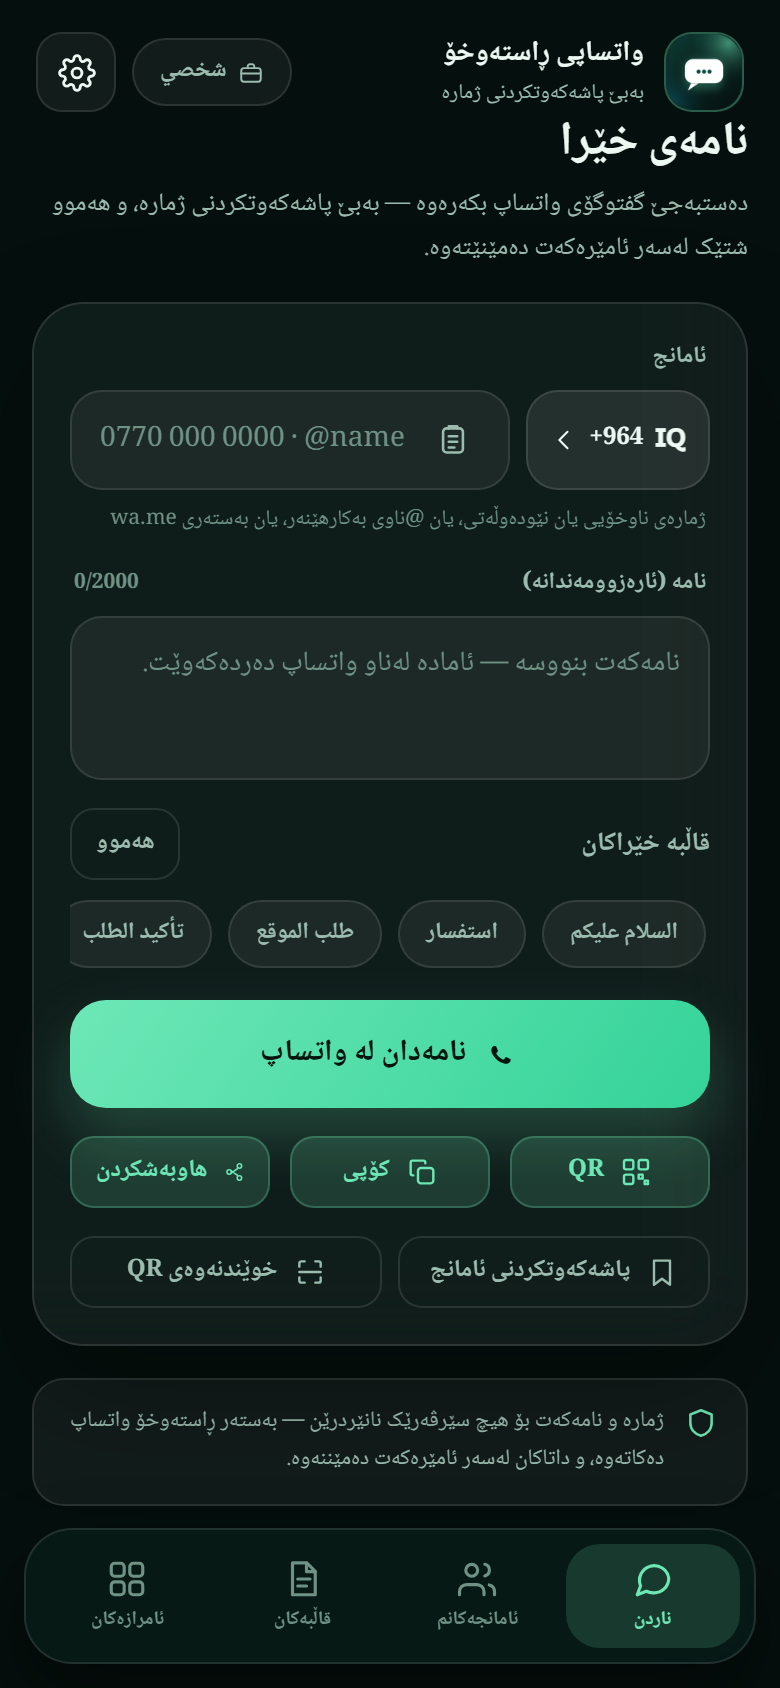
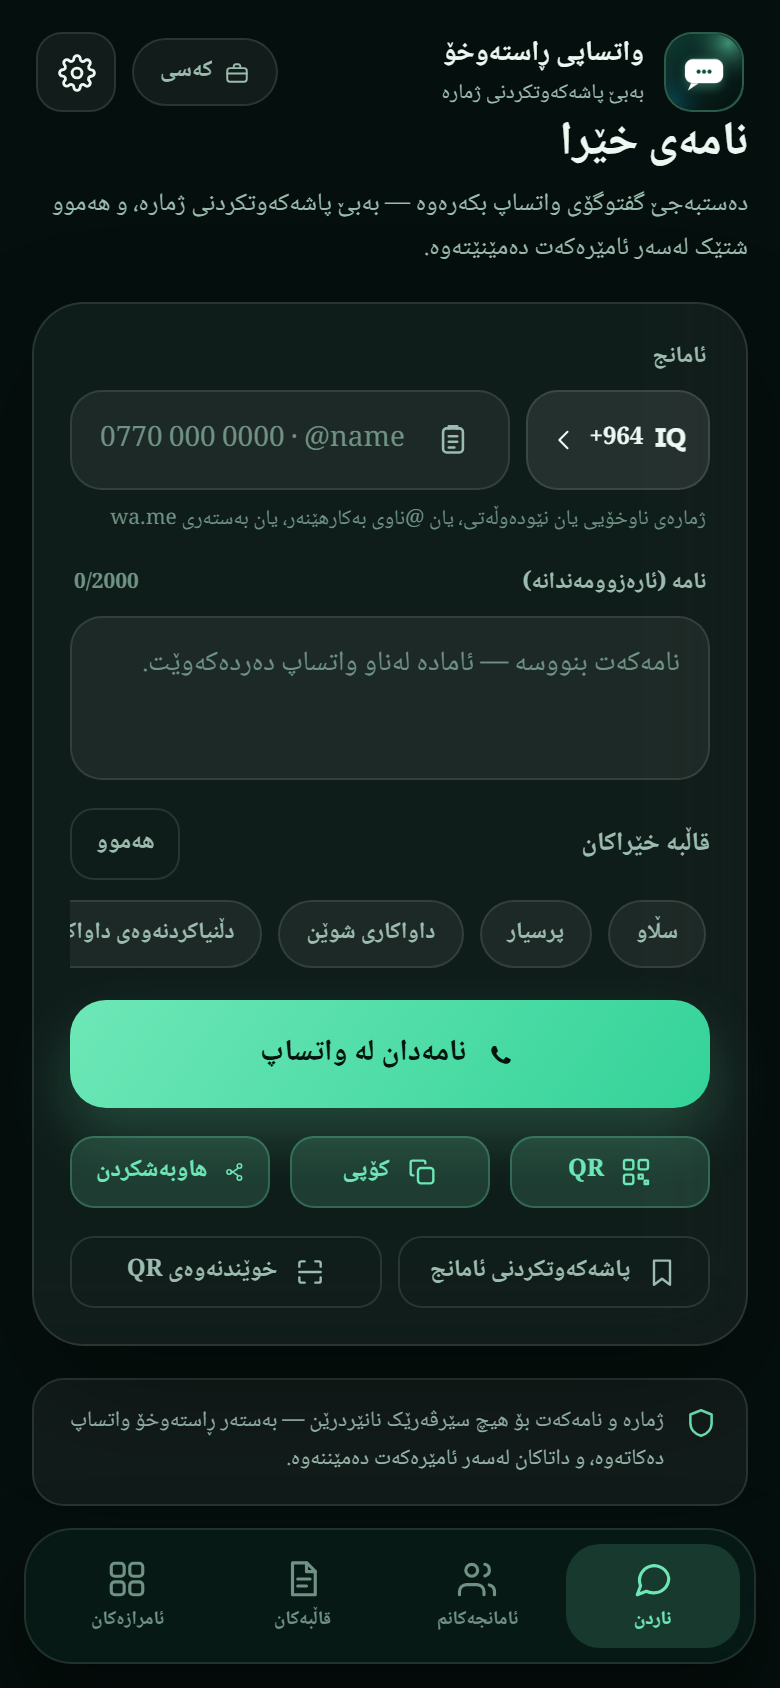
feat(v2.2): localize built-in templates and workspace names for fa/ckb

diff --git a/src/features/templates/TemplatesScreen.tsx b/src/features/templates/TemplatesScreen.tsx
@@ -7,7 +7,7 @@ import { hapticError, hapticSuccess } from '../../lib/haptics';
 import { useI18n } from '../../lib/i18n';
 import { setDraft } from '../../lib/launch';
 import { navigate } from '../../lib/router';
-import { templateVariables } from '../../lib/template';
+import { localizedTemplate, templateVariables } from '../../lib/template';
 import { toast } from '../../lib/toast';
 import type { Template } from '../../types';
 import { TemplateSheet } from './TemplateSheet';
@@ -21,7 +21,7 @@ function clampLines(lines: number): CSSProperties {
 
 /** Ready-made message templates with variables. */
 export function TemplatesScreen() {
-  const { t, locale, rel } = useI18n();
+  const { t, rel } = useI18n();
   const workspace = useActiveWorkspace();
   const templates = useTemplates(workspace?.id);
 
@@ -33,8 +33,8 @@ export function TemplatesScreen() {
   const [varsFor, setVarsFor] = useState<Template | null>(null);
   const [deleteTarget, setDeleteTarget] = useState<Template | null>(null);
 
-  const titleOf = (template: Template) => (locale === 'en' ? template.titleEn || template.title : template.title);
-  const bodyOf = (template: Template) => (locale === 'en' ? template.bodyEn || template.body : template.body);
+  const titleOf = (template: Template) => localizedTemplate(template, t).title;
+  const bodyOf = (template: Template) => localizedTemplate(template, t).body;
 
   const tags = useMemo(() => {
     const found = new Set<string>();
@@ -50,11 +50,11 @@ export function TemplatesScreen() {
     return templates.filter((template) => {
       if (activeTag && !(template.tags || []).includes(activeTag)) return false;
       if (!term) return true;
-      const title = locale === 'en' ? template.titleEn || template.title : template.title;
-      const body = locale === 'en' ? template.bodyEn || template.body : template.body;
+      const title = localizedTemplate(template, t).title;
+      const body = localizedTemplate(template, t).body;
       return [title, body, ...(template.tags || [])].some((value) => value.toLowerCase().includes(term));
     });
-  }, [templates, activeTag, term, locale]);
+  }, [templates, activeTag, term, t]);
 
   const openNew = () => {
     setEditing(null);

diff --git a/src/lib/ku.ts b/src/lib/ku.ts
@@ -962,4 +962,18 @@ export const KU: Record<string, string> = {
   'أذربيجان': 'ئازەربایجان',
   'جورجيا': 'گورجستان',
   'كازاخستان': 'کازاخستان',
+
+  // قالبە بنەڕەتییەکان (ناوەکان و دەقەکان)
+  'السلام عليكم': 'سڵاو',
+  'السلام عليكم ورحمة الله وبركاته، كيف حالك؟': 'سڵاو و ڕەحمەتی خوا و بەرەکاتەکانی، چۆنی؟',
+  'استفسار': 'پرسیار',
+  'مرحباً، أود الاستفسار عن التفاصيل والأسعار. شكراً لك.': 'سڵاو، دەمەوێت دەربارەی وردەکاری و نرخەکان بپرسێم. سوپاس.',
+  'طلب الموقع': 'داواکاری شوێن',
+  'مرحباً، هل يمكنك إرسال موقعكم بالتحديد؟': 'سڵاو، دەتوانیت شوێنی وردی خۆتان بنێریت؟',
+  'تأكيد الطلب': 'دڵنیاکردنەوەی داواکاری',
+  'تم استلام طلبك بنجاح، وسنبدأ العمل عليه فوراً. شكراً لثقتك.': 'داواکارییەکەت بە سەرکەوتوویی وەرگیرا و بەم زووانە دەست پێدەکەین. سوپاس بۆ متمانەت.',
+  'شكر': 'سوپاس',
+  'شكراً جزيلاً لك، سعدنا بالتعامل معك.': 'زۆر سوپاس، خۆشحاڵ بووین بە هاوکاری لەگەڵت.',
+  'مرحباً، أردت المتابعة معك بخصوص طلبك السابق. هل تحتاج أي مساعدة إضافية؟': 'سڵاو، دەمویست بەدواداچوون بۆ داواکاری پێشووت بکەم. پێویستت بە یارمەتی زیاترە؟',
+  'عمل': 'کار',
 };

diff --git a/src/lib/fa.ts b/src/lib/fa.ts
@@ -973,4 +973,18 @@ export const FA: Record<string, string> = {
   'ADMH': 'ADMH',
   'QR': 'QR',
   'إنجاز': 'انجام',
+
+  // قالبهای پیشفرض (عنوانها و متنها)
+  'السلام عليكم': 'سلام',
+  'السلام عليكم ورحمة الله وبركاته، كيف حالك؟': 'سلام و رحمت الله و برکاته، حال شما چطور است؟',
+  'استفسار': 'استفسار',
+  'مرحباً، أود الاستفسار عن التفاصيل والأسعار. شكراً لك.': 'سلام، میخواهم درباره جزئیات و قیمتها سؤال کنم. ممنون.',
+  'طلب الموقع': 'درخواست موقعیت',
+  'مرحباً، هل يمكنك إرسال موقعكم بالتحديد؟': 'سلام، آیا میتوانید موقعیت دقیق خود را بفرستید؟',
+  'تأكيد الطلب': 'تأیید سفارش',
+  'تم استلام طلبك بنجاح، وسنبدأ العمل عليه فوراً. شكراً لثقتك.': 'سفارش شما با موفقیت دریافت شد و بهزودی شروع میکنیم. از اعتماد شما سپاسگزاریم.',
+  'شكر': 'تشکر',
+  'شكراً جزيلاً لك، سعدنا بالتعامل معك.': 'بسیار سپاسگزارم، از همکاری با شما خوشحال شدیم.',
+  'مرحباً، أردت المتابعة معك بخصوص طلبك السابق. هل تحتاج أي مساعدة إضافية؟': 'سلام، میخواستم درباره سفارش قبلی شما پیگیری کنم. آیا به کمک بیشتری نیاز دارید؟',
+  'عمل': 'کار',
 };

diff --git a/src/App.tsx b/src/App.tsx
@@ -19,6 +19,7 @@ import { takeSharedImage } from './lib/sharedImage';
 import { getStorageInfo } from './lib/storage';
 import { notificationPermission, notifyDueReminders } from './lib/notifications';
 import { APP_VERSION } from './lib/changelog';
+import { workspaceDisplayName } from './lib/workspace';
 import { toast } from './lib/toast';
 import { Onboarding } from './components/Onboarding';
 import { WhatsNew } from './components/WhatsNew';
@@ -121,7 +122,7 @@ function WorkspaceSheet({ open, onClose }: { open: boolean; onClose: () => void 
               <Icon name="briefcase" size={18} />
             </span>
             <span className="list-main">
-              <span className="list-title">{locale === 'en' ? workspace.nameEn : workspace.name}</span>
+              <span className="list-title">{workspaceDisplayName(workspace, t, locale)}</span>
             </span>
             {settings.activeWorkspaceId === workspace.id ? <Icon name="check" size={18} /> : null}
           </button>
@@ -233,7 +234,7 @@ export default function App() {
   const first = path[0] || 'compose';
   const isTab = path.length === 1 && (first === 'compose' || first === 'targets' || first === 'templates' || first === 'tools');
   const tab: TabKey = (isTab ? first : 'compose') as TabKey;
-  const workspaceName = workspace ? (locale === 'en' ? workspace.nameEn : workspace.name) : t('شخصي', 'Personal');
+  const workspaceName = workspaceDisplayName(workspace, t, locale);
   const due = useDueReminders(workspace?.id);
   const showOnboarding = !settings.onboarded && !introDone;
   const showWhatsNew = settings.onboarded && settings.lastSeenVersion !== APP_VERSION && !whatsNewClosed;

diff --git a/src/features/compose/ComposeScreen.tsx b/src/features/compose/ComposeScreen.tsx
@@ -11,7 +11,7 @@ import { COUNTRIES, countryByIso, extractCandidateFromText, formatPhone, normali
 import { initials } from '../../lib/format';
 import { navigate } from '../../lib/router';
 import { updateSettings, useSettings } from '../../lib/settings';
-import { hasVariables, previewTemplate } from '../../lib/template';
+import { hasVariables, localizedTemplate, previewTemplate } from '../../lib/template';
 import { toast } from '../../lib/toast';
 import { buildChatUrl, openChat } from '../../lib/whatsapp';
 import type { Draft, Target } from '../../types';
@@ -381,15 +381,14 @@ export function ComposeScreen() {
               </Button>
             </div>
             <div className="chip-row">
-              {templates.slice(0, 12).map((template) => (
-                <Chip
-                  key={template.id}
-                  title={template.title}
-                  onClick={() => insertTemplate(locale === 'en' && template.bodyEn ? template.bodyEn : template.body)}
-                >
-                  {locale === 'en' ? template.titleEn || template.title : template.title}
-                </Chip>
-              ))}
+              {templates.slice(0, 12).map((template) => {
+                const localized = localizedTemplate(template, t);
+                return (
+                  <Chip key={template.id} title={localized.title} onClick={() => insertTemplate(localized.body)}>
+                    {localized.title}
+                  </Chip>
+                );
+              })}
             </div>
           </div>
         ) : null}

diff --git a/src/features/tools/LabelsScreen.tsx b/src/features/tools/LabelsScreen.tsx
@@ -4,6 +4,7 @@ import { Button, EmptyState, Field, HintCard, ScreenHeader, Segmented, Spinner }
 import { useActiveWorkspace, useDestinations } from '../../hooks/useData';
 import { useI18n } from '../../lib/i18n';
 import { useSettings, fontFamily, resolveFont } from '../../lib/settings';
+import { workspaceDisplayName } from '../../lib/workspace';
 import { goBack, navigate } from '../../lib/router';
 import { qrDataUrl } from '../../lib/qr';
 import { parseTarget } from '../../lib/phone';
@@ -240,7 +241,7 @@ export function LabelsScreen() {
 
       const html = buildPrintDocument(rows, grid === '3x8' ? 3 : 2, {
         title: t('ملصقات واتساب', 'WhatsApp labels'),
-        subtitle: workspace ? (locale === 'en' ? workspace.nameEn : workspace.name) : t('ADMH', 'ADMH'),
+        subtitle: workspaceDisplayName(workspace, t, locale),
         footer: 'ADMH · WhatsApp Direct',
         dir: isRTL ? 'rtl' : 'ltr',
         fontFamily: fontFamily(resolveFont(locale, settings.font))

diff --git a/src/features/templates/TemplateVarsSheet.tsx b/src/features/templates/TemplateVarsSheet.tsx
@@ -1,7 +1,7 @@
 import { useEffect, useState } from 'react';
 import { Button, Field, Sheet } from '../../components/ui';
 import { useI18n } from '../../lib/i18n';
-import { applyTemplate, previewTemplate, templateVariables, type TemplateVars } from '../../lib/template';
+import { applyTemplate, localizedTemplate, previewTemplate, templateVariables, type TemplateVars } from '../../lib/template';
 import type { Template } from '../../types';
 
 export interface TemplateVarsSheetProps {
@@ -37,7 +37,7 @@ export function TemplateVarsSheet({ open, onClose, template, onApply }: Template
     // eslint-disable-next-line react-hooks/exhaustive-deps
   }, [open, template?.id, locale]);
 
-  const body = template ? (locale === 'en' && template.bodyEn ? template.bodyEn : template.body) : '';
+  const body = template ? localizedTemplate(template, t).body : '';
   const keys = templateVariables(body);
   const preview = previewTemplate(body, vars, locale);
 

diff --git a/src/features/settings/SettingsScreen.tsx b/src/features/settings/SettingsScreen.tsx
@@ -21,6 +21,7 @@ import {
   type NotificationPermissionState
 } from '../../lib/notifications';
 import { writeClipboardText } from '../../lib/clipboard';
+import { workspaceDisplayName } from '../../lib/workspace';
 import { CountrySheet } from './CountrySheet';
 import { WorkspaceSheet } from './WorkspaceSheet';
 import { PinSheet, type PinSheetMode } from './PinSheet';
@@ -566,7 +567,7 @@ export function SettingsScreen() {
             {workspaces.map((workspace) => {
               const isActive = workspace.id === activeWorkspace?.id;
               const iconName = WORKSPACE_ICONS[workspace.icon] ?? 'briefcase';
-              const localName = locale === 'en' ? workspace.nameEn || workspace.name : workspace.name;
+              const localName = workspaceDisplayName(workspace, t, locale);
               return (
                 <div key={workspace.id} className="list-row">
                   <span

diff --git a/src/lib/template.ts b/src/lib/template.ts
@@ -1,3 +1,5 @@
+import type { Template } from '../types';
+
 export interface TemplateVars {
   name?: string;
   company?: string;
@@ -37,4 +39,16 @@ export function previewTemplate(body: string, vars: TemplateVars, locale: string
     date: vars.date || new Date().toLocaleDateString(locale === 'en' ? 'en-GB' : 'ar-IQ')
   });
   return filled;
+}
+
+/**
+ * Built-in templates are seeded in Arabic once; translate their title/body
+ * through the active locale dictionary without mutating the stored data.
+ */
+export function localizedTemplate(template: Template, t: (ar: string, en: string) => string): { title: string; body: string } {
+  if (!template.builtin) return { title: template.title, body: template.body };
+  return {
+    title: t(template.title, template.titleEn || template.title),
+    body: t(template.body, template.bodyEn || template.body)
+  };
 }

diff --git a/src/features/tools/ShareCardScreen.tsx b/src/features/tools/ShareCardScreen.tsx
@@ -4,6 +4,7 @@ import { Button, EmptyState, Field, HintCard, IconButton, ScreenHeader, Spinner 
 import { useActiveWorkspace } from '../../hooks/useData';
 import { useI18n } from '../../lib/i18n';
 import { useSettings, fontFamily, resolveFont } from '../../lib/settings';
+import { workspaceDisplayName } from '../../lib/workspace';
 import { goBack } from '../../lib/router';
 import { loadImage, qrDataUrl } from '../../lib/qr';
 import { buildChatUrl } from '../../lib/whatsapp';
@@ -306,7 +307,7 @@ export function ShareCardScreen() {
 
   useEffect(() => {
     if (nameEdited.current || name.trim() || !workspace) return;
-    setName(locale === 'en' ? workspace.nameEn : workspace.name);
+    setName(workspaceDisplayName(workspace, t, locale));
   }, [workspace, locale, name]);
 
   const resolvedFont = fontFamily(resolveFont(locale, settings.font));

diff --git a/src/features/tools/ToolsScreen.tsx b/src/features/tools/ToolsScreen.tsx
@@ -3,6 +3,7 @@ import { HintCard, ScreenHeader } from '../../components/ui';
 import { useActiveWorkspace, useDestinations } from '../../hooks/useData';
 import { useI18n } from '../../lib/i18n';
 import { navigate } from '../../lib/router';
+import { workspaceDisplayName } from '../../lib/workspace';
 
 interface ToolEntry {
   path: string;
@@ -121,7 +122,7 @@ export function ToolsScreen() {
   const { t, n, locale, isRTL } = useI18n();
   const workspace = useActiveWorkspace();
   const destinations = useDestinations(workspace?.id);
-  const workspaceName = workspace ? (locale === 'en' ? workspace.nameEn : workspace.name) : t('شخصي', 'Personal');
+  const workspaceName = workspaceDisplayName(workspace, t, locale);
 
   return (
     <div className="screen">

diff --git a/src/features/tools/VCardScreen.tsx b/src/features/tools/VCardScreen.tsx
@@ -4,6 +4,7 @@ import { Button, Field, HintCard, ScreenHeader } from '../../components/ui';
 import { useActiveWorkspace } from '../../hooks/useData';
 import { useI18n } from '../../lib/i18n';
 import { useSettings } from '../../lib/settings';
+import { workspaceDisplayName } from '../../lib/workspace';
 import { goBack } from '../../lib/router';
 import { qrDataUrl } from '../../lib/qr';
 import { buildChatUrl } from '../../lib/whatsapp';
@@ -32,7 +33,7 @@ export function VCardScreen() {
 
   useEffect(() => {
     if (nameEdited.current || name.trim() || !workspace) return;
-    setName(locale === 'en' ? workspace.nameEn : workspace.name);
+    setName(workspaceDisplayName(workspace, t, locale));
   }, [workspace, locale, name]);
 
   const parsed = useMemo(
